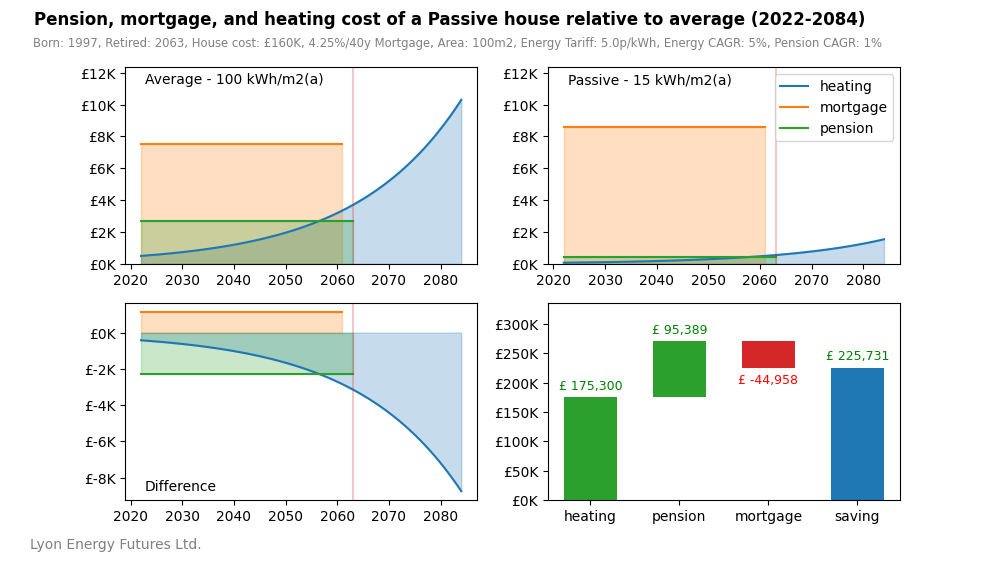
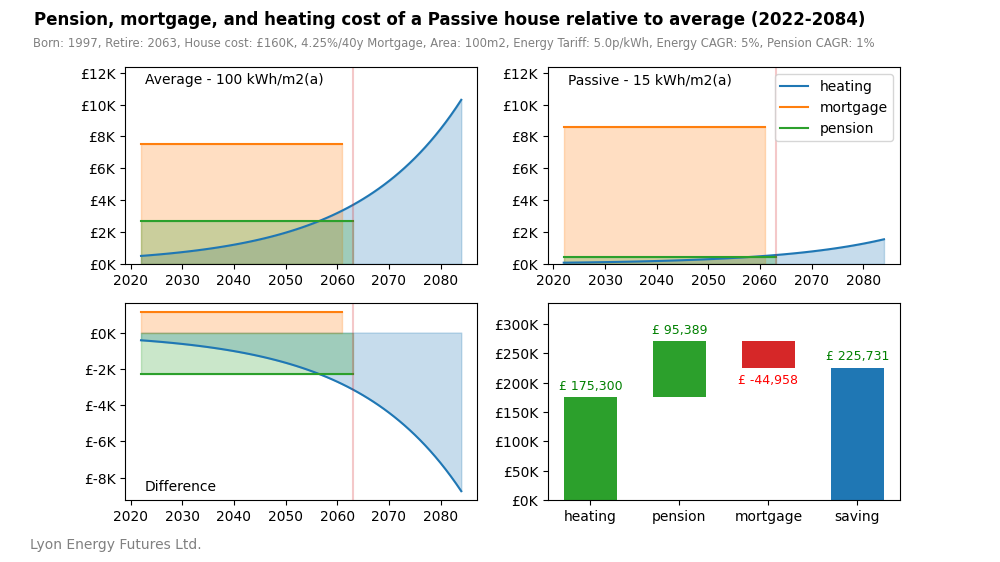
formatting

Changed region(s): [[0.124, 0.0605, 0.899, 0.0907]]

diff --git a/pension_calculator/plot/plot_payment_schedule.py b/pension_calculator/plot/plot_payment_schedule.py
@@ -171,7 +171,7 @@ if __name__ == "__main__":
     # parameters
     ax1.annotate(
         f"Born: {passive_params.person_year_of_birth}, "
-        f"Retired: {YOR}, "
+        f"Retire: {YOR}, "
         f"House cost: £{passive_params.house_purchase_cost/1000:1.0f}K, "
         f"{passive_params.mortgage_interest_rate*100}%/{passive_params.mortgage_length_years}y Mortgage, "
         f"Area: {passive_params.house_area_m2}m2, "
